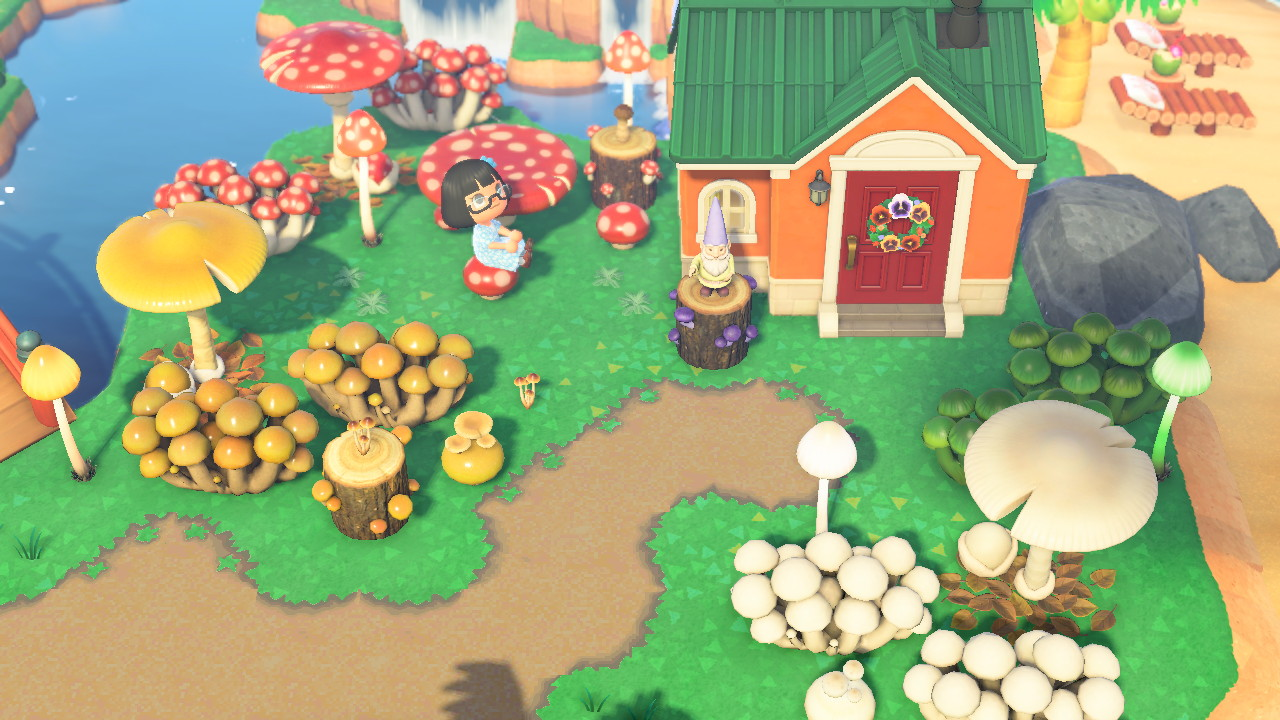
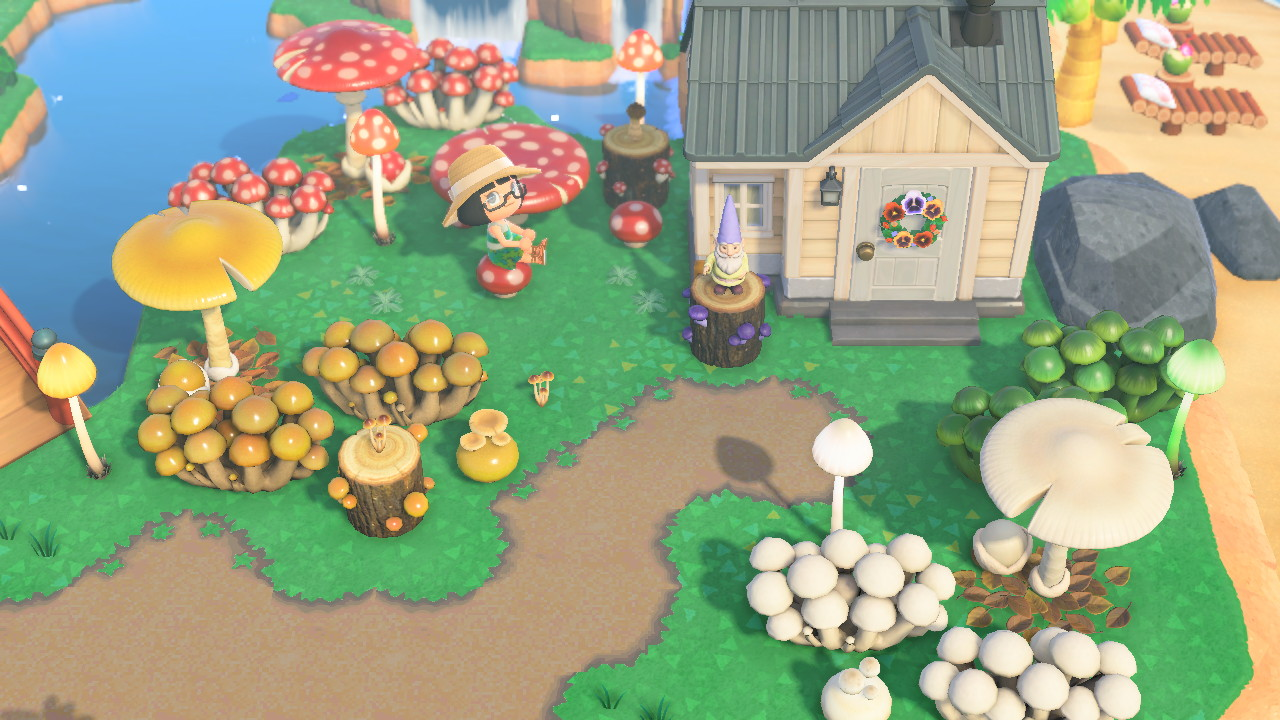
feat: update

diff --git a/README.md b/README.md
@@ -123,7 +123,7 @@
 ### 28. 失落之森 (The Lost Forest)
 > 🎵：[我的歸所 (My Place)](https://www.youtube.com/watch?v=VFD20e_wIqY)
 >
-> 🐏：茶茶丸 (Dom) 🚪：樹枝花圈 (Tree Branch Wreath)
+> 🐏：茶茶丸 (Dom) 🚪：紫色風信子花圈 (Purple Hyacinth Wreath)
 
 ![失落之森 (The Lost Forest)](./images/失落之森.jpg)
 
